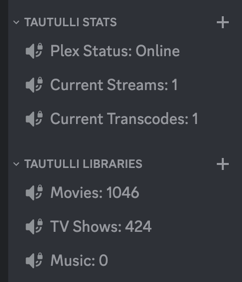
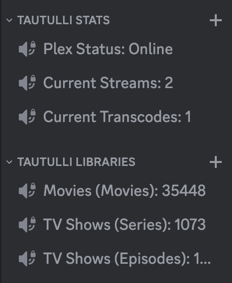
- Library stats now show what type of stat (e.g. Tracks, Episodes, Series)

diff --git a/modules/discord_connector.py b/modules/discord_connector.py
@@ -1,5 +1,5 @@
 import asyncio
-from typing import Union, List
+from typing import Union, List, Dict, Tuple
 
 import discord
 from discord import Emoji
@@ -480,8 +480,14 @@ class DiscordConnector:
         logging.info("Updating library stats...")
         if self.tautulli.voice_channel_settings.get(statics.KEY_STATS, False):
             for library_name in self.tautulli.voice_channel_settings.get(statics.KEY_LIBRARIES, []):
-                size = self.tautulli.get_library_item_count(library_name=library_name)
-                logging.info(f"Updating {library_name} voice channel with new library size: {size}")
-                await self.edit_stat_voice_channel(channel_name=library_name,
-                                                   stat=size,
-                                                   category=self.tautulli_libraries_voice_category)
+                stats: List[Tuple[str, int]] = self.tautulli.get_library_item_count(library_name=library_name)
+                for stat in stats:
+                    stat_type = stat[0]
+                    stat_value = stat[1]
+                    channel_name = f"{library_name}"
+                    if stat_type:
+                        channel_name += f" ({stat_type})"
+                    logging.info(f"Updating {library_name} voice channel with new library size: {stat_value}")
+                    await self.edit_stat_voice_channel(channel_name=channel_name,
+                                                       stat=stat_value,
+                                                       category=self.tautulli_libraries_voice_category)

diff --git a/modules/tautulli_connector.py b/modules/tautulli_connector.py
@@ -1,4 +1,4 @@
-from typing import List, Tuple, Union
+from typing import List, Tuple, Union, Dict
 
 import discord
 import tautulli
@@ -378,13 +378,19 @@ class TautulliConnector:
             return None
         return self.api.get_library(section_id=library_id)
 
-    def get_library_item_count(self, library_name: str) -> int:
+    def get_library_item_count(self, library_name: str) -> List[Tuple[str, int]]:
         library_info = self.get_library_info(library_name=library_name)
         if not library_info:
-            return 0
-        if library_info.get('section_type') == 'artist':
-            return library_info.get('child_count')  # child_count is the number of tracks
-        return library_info.get('count', 0)
+            return [('', 0)]
+        library_type = library_info.get('section_type')
+        match library_type:
+            case 'show':
+                return [('Series', library_info.get('count')), ('Episodes', library_info.get('child_count'))]
+            case 'artist':
+                return [('Artists', library_info.get('count')), ('Tracks', library_info.get('child_count'))]
+            case 'movie':
+                return [('Movies', library_info.get('count'))]
+        return [('', 0)]
 
     def is_plex_server_online(self) -> bool:
         return self.api.server_status.get("connected", False)
